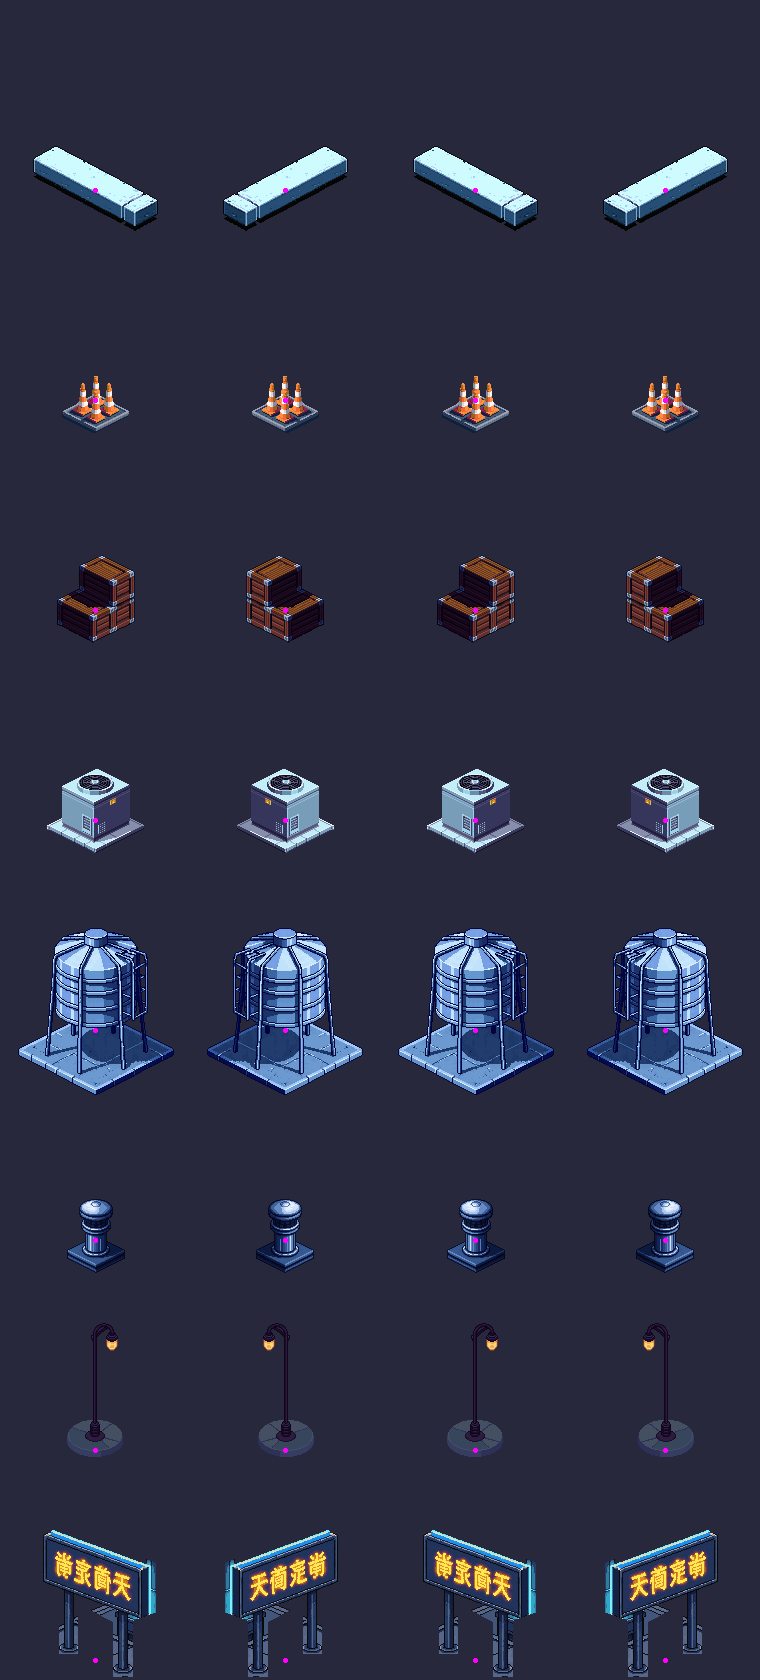
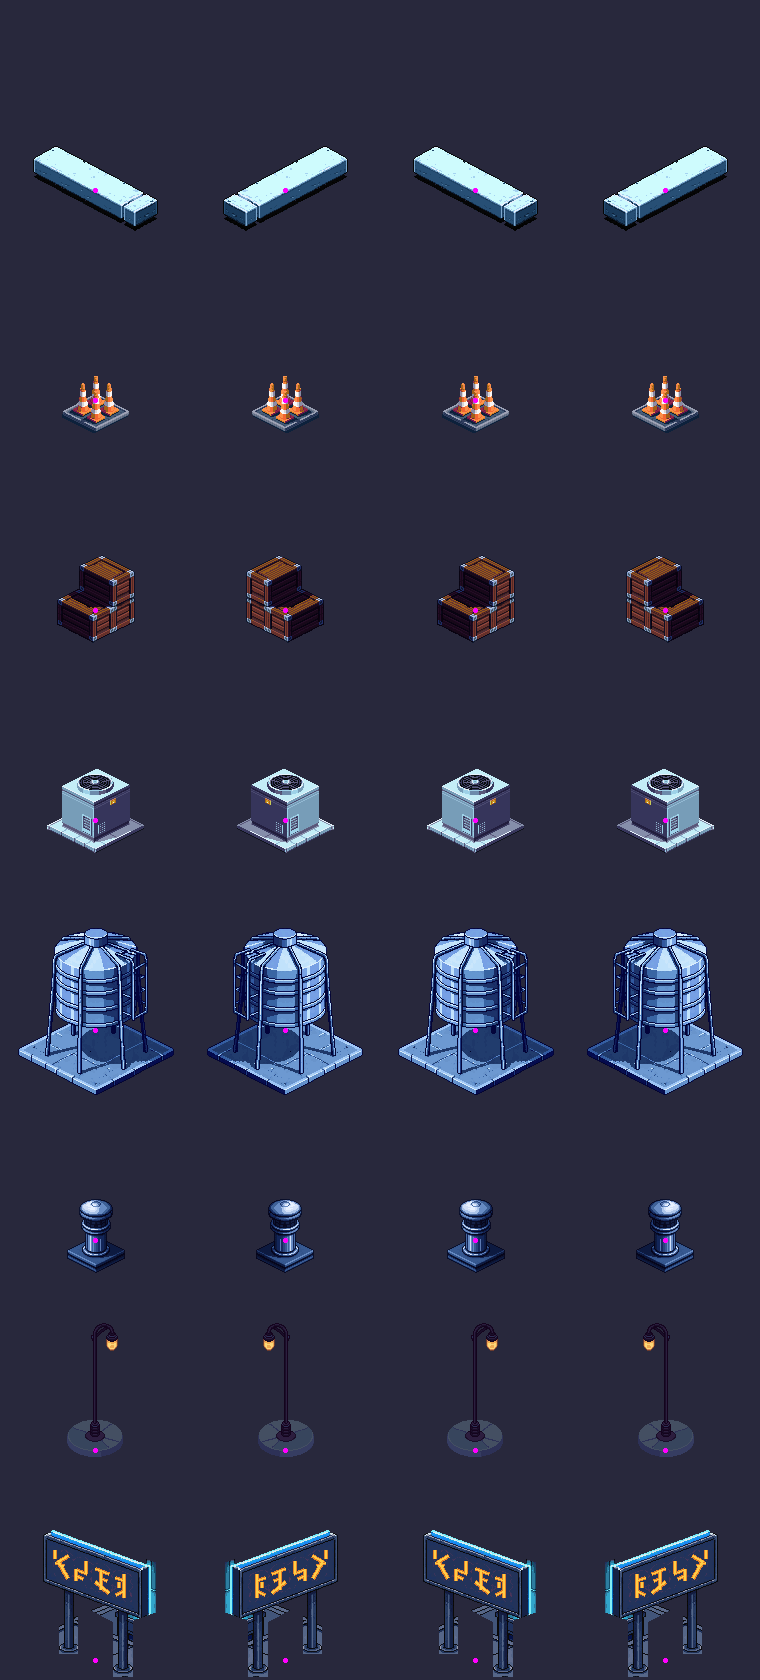
T-256: rotations sheet with the new glyphs, result notes

diff --git a/tasks/T-256-art-creator-props.md b/tasks/T-256-art-creator-props.md
@@ -1,7 +1,7 @@
 ---
 id: T-256
 title: "Art: the creator's props, in four rotations"
-status: in-qa
+status: in-progress
 from: project-lead
 to: asset-generation
 lead: Coursework
@@ -15,7 +15,7 @@ documents_affected: [docs/visual-style.md, game/README.md]
 files_to_read_first: [tasks/README.md, docs/visual-style.md, docs/extended-narrative.md, game/README.md, tasks/T-253-placeable-props.md, game/tools/pixellab_client.py]
 files_expected_to_change: [game/art/props/, game/art/pixellab-generation-log.jsonl, art-archive/T-256/, art-archive/README.md, game/data/level/, docs/visual-style.md, game/README.md]
 model: sonnet
-qa_rounds: 0
+qa_rounds: 1
 ---
 
 <!--
@@ -59,6 +59,10 @@ Started on T-253's branch: PixelLab art for the eight props in four rotations, c
 
 Art in: 8 of 40 generations, one picture per prop, rotations by mirroring. Weak: several props are small for their footprints, and the rooftop sign shows real Chinese characters. Sent to QA.
 
+### 2026-10-22, In QA → In progress
+
+QA failed one point: the sign shows real Chinese characters. Sent back for a free script fix (made-up glyphs), no new generations.
+
 ## Result notes
 
 ### Plan before any call (Asset Generation Agent, 2026-10-22)
@@ -82,7 +86,7 @@ What each looks like (honestly):
 - **Water tank:** steel cylinder with bands, a conical lid, a cage and legs on a big blue pad; the best looking one. 156 x 167 px, its round pad is the collision's size, smaller than the 4 x 4 diamond (256 px).
 - **Roof vent:** a short round grey stack with a mushroom cap on a dark pad; small (58 x 74 px), smaller than its 2 x 2 footprint.
 - **Street lamp:** thin dark pole on a round grey base, curved arm and a warm amber lamp head; good. 56 x 134 px. The lamp head points one way, so east and west show it on the other side.
-- **Roof sign:** a dark panel with a cyan neon edge on two steel legs, amber glowing marks. The generation came with a rooftop and building around it; those were cut out by a script mask (panel and legs kept). **Weak:** the marks came out as real Chinese characters (one reads as a real word, 天), not only Japanese-like marks, so Narrative or the board may want them replaced (a hand edit or a regeneration, which this round did not do); north and south show them mirrored; the same face shows from both sides.
+- **Roof sign:** a dark panel with a cyan neon edge on two steel legs, amber glowing marks. The generation came with a rooftop and building around it; those were cut out by a script mask (panel and legs kept). **QA round 1 fix (free, no PixelLab):** the generated marks were real Chinese characters (one the real word 天), so `build_prop_final_art.py` (`replace_marks`) paints them over with the panel's colour and draws four made-up glyphs of a few straight strokes, amber with an orange halo, hard pixel edges, on the panel's slope. **The glyphs are script-drawn and are not real characters or words of any script.** All four rotations use them (mirrored in north and south; the same face shows from both sides). The generated original stays in `art-archive/T-256/raw/roof_sign_raw.png`.
 - **General weak points, not regenerated:** props are smaller than their footprints (crates, AC unit, vent, cones, barrier about 60 to 80% of the footprint's diamond), so their art sits inside the blocked area; the footprints or collisions in `props.json` can be tuned instead (board's playtest). Several props came with a base pad, which reads as a rooftop pad or footing. No Redgull red in any sprite (check passes).
 
 Tests: full GUT suite passed (`bash game/tools/run_tests.sh`, 400 s), `game/tools` Python tests 445 OK (new `test_build_prop_final_art.py`), `tools` Python tests 439 OK. Screenshots in `art-archive/T-256/screenshots/`: `rotations_sheet.png` (every prop, four rotations, anchors in magenta), `creator_close.png`, `creator_street.png`, `creator_roof.png`, `creator_panel.png` (every prop in four rotations in the creator, street and rooftop), `drive_end.png` (a run: the car beside the lamp). Refusals: two shell commands were refused by the guard hook (one using `set -a` to read the env file, one `curl` of PixelLab's openapi); I did not work around them, and the client reads the token itself, so nothing was needed. Documents updated: `docs/visual-style.md`, `game/README.md`, `art-archive/README.md`.
